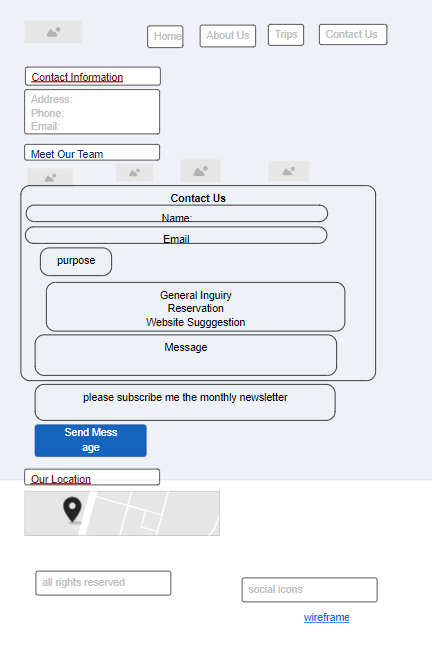
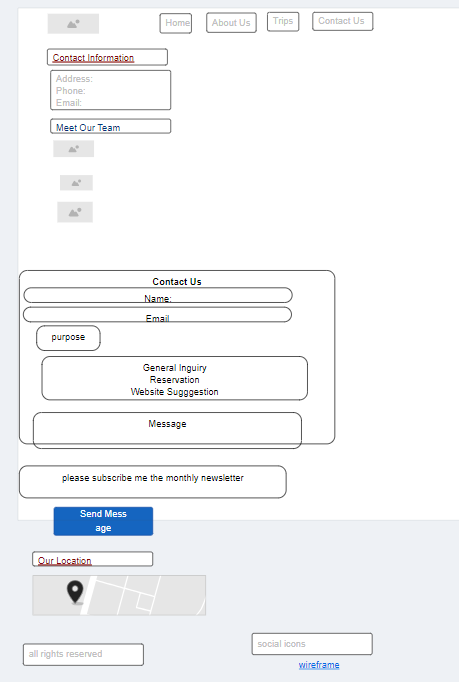
modified wireframe

diff --git a/wwr/styles/style.css b/wwr/styles/style.css
@@ -142,7 +142,7 @@ nav a:hover {
 }
 .rafting-images {
     display: flex; /* Aligns the images horizontally */
-    gap: 2px; /* Space between images */
+    gap: 1px; /* Space between images */
     overflow: hidden; /* Prevents overflow */
     justify-content: space-between; /* Distributes space evenly */
 }
@@ -198,9 +198,10 @@ footer .sociallinks img {
 
        /* Employee profiles */
 .employee-profiles {
-    display: flex;
-    justify-content: space-between;
-    margin-top: 20px;
+    display: flex; /* Aligns the images horizontally */
+    gap: 2px; /* Space between images */
+    overflow: hidden; /* Prevents overflow */
+    justify-content: space-between; /* Distributes space evenly */
 }
 
 .profile {
